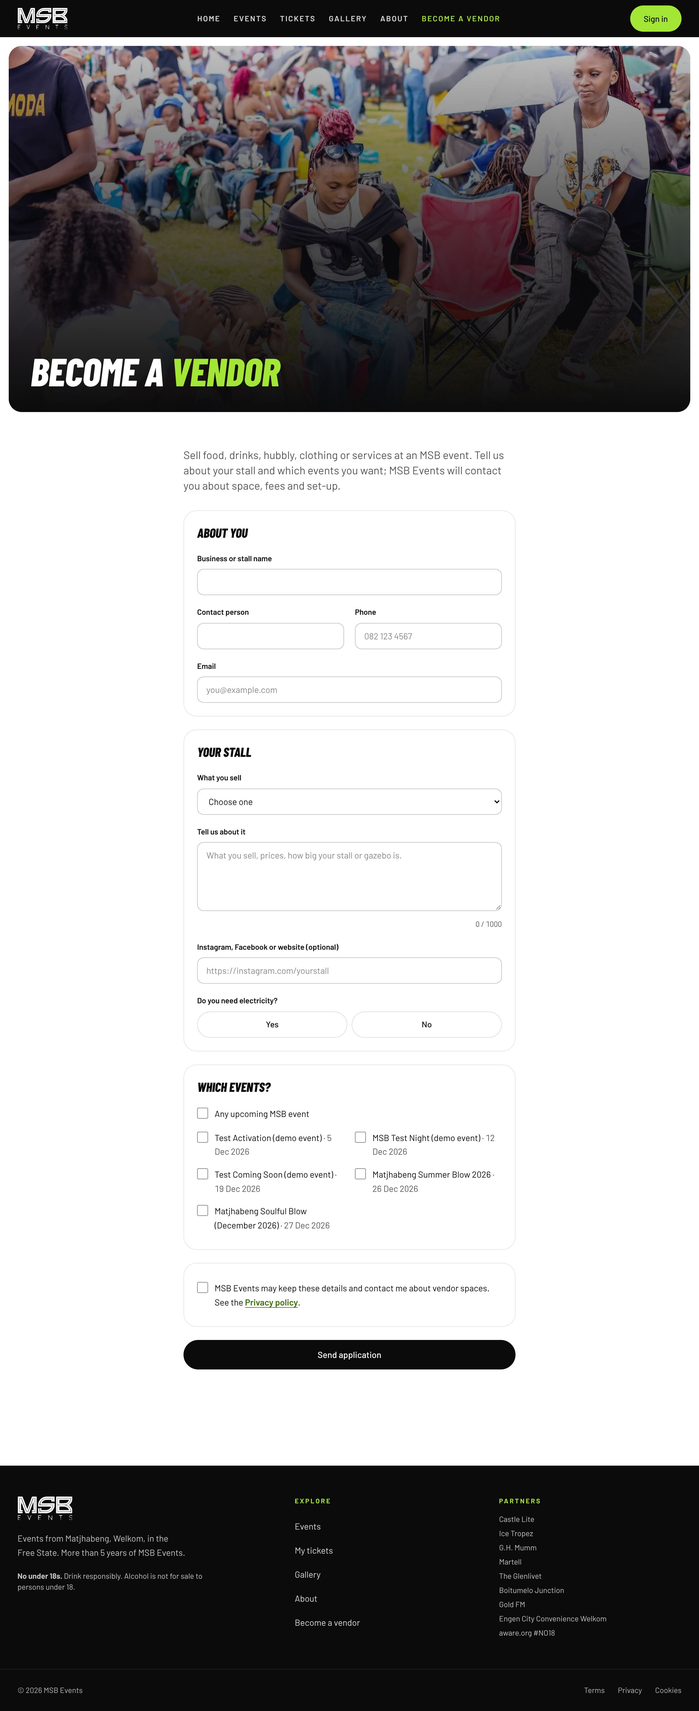
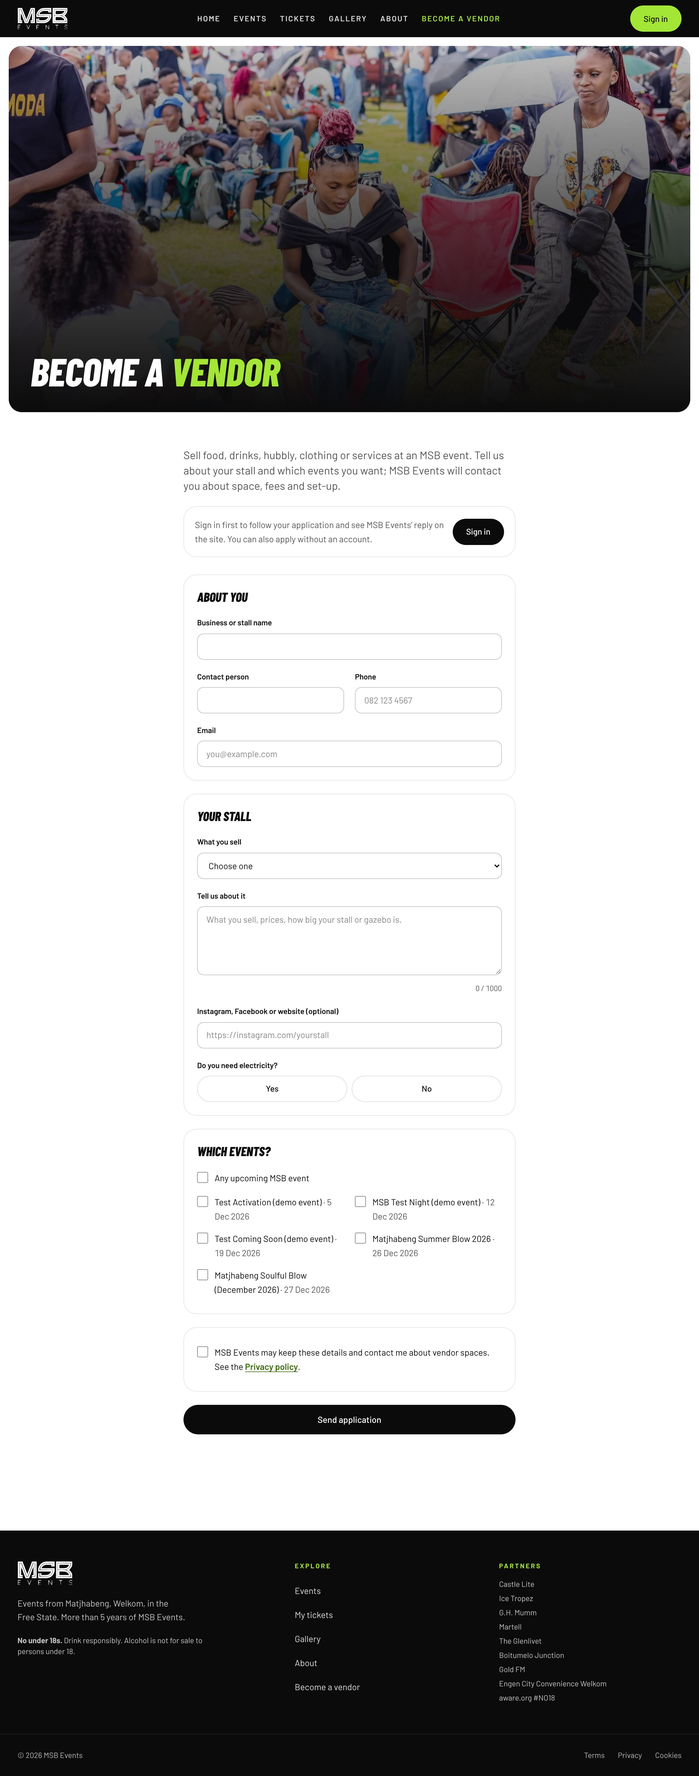
Vendors can follow their applications: My applications page with status and staff message
- Signed-in vendors see their own applications (Received / Approved / Not this time) and the message from MSB Events
- Staff write an optional message when approving or declining (or save it on its own)
- Rules: vendors read only their own applications and cannot change them; message up to 500 characters (+ tests)
- Vendor page prompts signing in to follow the application; privacy page updated

Claude-Session: https://claude.ai/code/session_018NYH4mU8JW1KXeAiDMMBf2

diff --git a/src/pages/dashboard/VendorsAdmin.tsx b/src/pages/dashboard/VendorsAdmin.tsx
@@ -10,6 +10,7 @@ import { VENDOR_CATEGORIES } from '../Vendors';
 interface Application {
   id: string; businessName: string; contactName: string; email: string; phone: string; category: string; description: string;
   events: string[]; anyEvent: boolean; needsPower: boolean; link: string; status: 'new' | 'approved' | 'declined'; createdAt: Timestamp | null;
+  uid?: string | null; response?: string;
 }
 type Filter = 'all' | 'new' | 'approved' | 'declined';
 const LABEL: Record<Application['status'], string> = { new: 'New', approved: 'Approved', declined: 'Declined' };
@@ -20,6 +21,9 @@ export default function VendorsAdmin() {
   const [apps, setApps] = useState<Application[] | null>(null);
   const [filter, setFilter] = useState<Filter>('new');
   const [busy, setBusy] = useState<string | null>(null);
+  // Notes being typed, per application (falls back to the saved note).
+  const [notes, setNotes] = useState<Record<string, string>>({});
+  const noteOf = (a: Application) => notes[a.id] ?? a.response ?? '';
   const { events } = useEvents({ includeDrafts: true });
   useEffect(() => {
     if (!db) return;
@@ -35,15 +39,16 @@ export default function VendorsAdmin() {
     if (!db || !auth?.currentUser) return;
     setBusy(a.id + status);
     try {
-      await updateDoc(doc(db, 'vendorApplications', a.id), { status, reviewedBy: auth.currentUser.uid, reviewedAt: serverTimestamp() });
-      await logActivity(`Marked vendor ${status}`, a.businessName, a.id);
-      toast(`${a.businessName}: ${LABEL[status].toLowerCase()}.`);
+      await updateDoc(doc(db, 'vendorApplications', a.id), { status, reviewedBy: auth.currentUser.uid, reviewedAt: serverTimestamp(), response: noteOf(a).trim().slice(0, 500) });
+      await logActivity(status === a.status ? 'Messaged vendor' : `Marked vendor ${status}`, a.businessName, a.id);
+      setNotes((n) => { const c = { ...n }; delete c[a.id]; return c; });
+      toast(status === a.status ? 'Message saved. The vendor sees it on My applications.' : `${a.businessName}: ${LABEL[status].toLowerCase()}.`);
     } catch { toast('The application could not be updated.', 'error'); } finally { setBusy(null); }
   }
 
   function exportCsv() {
-    const head = ['Received', 'Status', 'Business', 'Contact', 'Phone', 'Email', 'Sells', 'Electricity', 'Events', 'About', 'Link'];
-    const rows = (apps ?? []).map((a) => [a.createdAt ? a.createdAt.toDate().toISOString() : '', a.status, a.businessName, a.contactName, a.phone, a.email, cat(a.category), a.needsPower ? 'Yes' : 'No', a.anyEvent ? 'Any upcoming event' : a.events.map(title).join('; '), a.description, a.link]);
+    const head = ['Received', 'Status', 'Business', 'Contact', 'Phone', 'Email', 'Sells', 'Electricity', 'Events', 'About', 'Link', 'Message to vendor'];
+    const rows = (apps ?? []).map((a) => [a.createdAt ? a.createdAt.toDate().toISOString() : '', a.status, a.businessName, a.contactName, a.phone, a.email, cat(a.category), a.needsPower ? 'Yes' : 'No', a.anyEvent ? 'Any upcoming event' : a.events.map(title).join('; '), a.description, a.link, a.response ?? '']);
     const csv = [head, ...rows].map((r) => r.map(csvCell).join(',')).join('\r\n');
     const url = URL.createObjectURL(new Blob(['' + csv], { type: 'text/csv;charset=utf-8' }));
     const el = document.createElement('a');
@@ -86,6 +91,18 @@ export default function VendorsAdmin() {
               <div className="min-w-0"><dt className="text-ink-soft">Events</dt><dd className="font-semibold break-any">{a.anyEvent ? 'Any upcoming event' : a.events.map(title).join(', ')}</dd></div>
               {a.link && <div className="min-w-0 sm:col-span-2"><dt className="text-ink-soft">Link</dt><dd><a className="link break-any" href={a.link} target="_blank" rel="noopener noreferrer">{a.link}</a></dd></div>}
             </dl>
+            {a.uid ? (
+              <div className="min-w-0">
+                <label htmlFor={`note-${a.id}`} className="field-label">Message to the vendor (optional)</label>
+                <textarea id={`note-${a.id}`} rows={2} maxLength={500} className="field" placeholder="For example: stall 12, set-up from 10:00" value={noteOf(a)} onChange={(e) => setNotes((n) => ({ ...n, [a.id]: e.target.value }))} aria-describedby={`note-${a.id}-hint`} />
+                <p id={`note-${a.id}-hint`} className="mt-1 text-sm text-ink-soft">Shown on their My applications page with the status. Saved when you approve, decline or press Save message.</p>
+                {a.status !== 'new' && noteOf(a) !== (a.response ?? '') && (
+                  <button type="button" className="btn btn-outline mt-2" disabled={!!busy} onClick={() => decide(a, a.status)}>{busy === a.id + a.status && <Spinner label="Saving" />} Save message</button>
+                )}
+              </div>
+            ) : (
+              <p className="text-sm text-ink-soft">Applied without an account: let them know by phone or email.</p>
+            )}
             <div className="even-cols pt-1">
               {a.status !== 'approved' && <button type="button" className="btn btn-primary" disabled={!!busy} onClick={() => decide(a, 'approved')}>{busy === a.id + 'approved' && <Spinner label="Saving" />} Approve</button>}
               {a.status !== 'declined' && <button type="button" className="btn btn-outline" disabled={!!busy} onClick={() => decide(a, 'declined')}>{busy === a.id + 'declined' && <Spinner label="Saving" />} Decline</button>}

diff --git a/src/pages/MyApplications.tsx b/src/pages/MyApplications.tsx
@@ -1,0 +1,84 @@
+import { useEffect, useState } from 'react';
+import { Link, Navigate } from 'react-router-dom';
+import { collection, onSnapshot, query, where, type Timestamp } from 'firebase/firestore';
+import { PageHero } from '../components/Layout';
+import { Skeleton } from '../components/ui';
+import { useAuth } from '../lib/auth';
+import { db } from '../lib/firebase';
+import { useEvents } from '../lib/data';
+import { useTitle } from '../lib/useTitle';
+import { VENDOR_CATEGORIES } from './Vendors';
+
+interface Application {
+  id: string; businessName: string; category: string; events: string[]; anyEvent: boolean;
+  status: 'new' | 'approved' | 'declined'; response?: string; createdAt: Timestamp | null; reviewedAt?: Timestamp | null;
+}
+
+const STATUS: Record<Application['status'], { label: string; cls: string; help: string }> = {
+  new: { label: 'Received', cls: 'bg-ink text-lime', help: 'MSB Events has your application and will be in touch.' },
+  approved: { label: 'Approved', cls: 'bg-ok text-white', help: 'Good news. MSB Events will contact you about space, fees and set-up.' },
+  declined: { label: 'Not this time', cls: 'bg-mist text-ink', help: 'Your application was not taken up for these events. You are welcome to apply again for other events.' },
+};
+const day = (t?: Timestamp | null) => (t ? t.toDate().toLocaleDateString('en-ZA', { timeZone: 'Africa/Johannesburg', day: 'numeric', month: 'short', year: 'numeric' }) : '');
+const cat = (k: string) => VENDOR_CATEGORIES.find(([c]) => c === k)?.[1] ?? k;
+
+/** A vendor's own applications (made while signed in), with the status and any note from MSB Events. */
+export default function MyApplications() {
+  useTitle('My vendor applications');
+  const { user, ready } = useAuth();
+  const { events } = useEvents();
+  const [apps, setApps] = useState<Application[] | null>(null);
+  useEffect(() => {
+    if (!db || !user) return;
+    return onSnapshot(
+      query(collection(db, 'vendorApplications'), where('uid', '==', user.uid)),
+      (s) => setApps(s.docs.map((d) => ({ id: d.id, ...(d.data({ serverTimestamps: 'estimate' }) as Omit<Application, 'id'>) })).sort((a, b) => (b.createdAt?.toMillis() ?? 0) - (a.createdAt?.toMillis() ?? 0))),
+      () => setApps([]),
+    );
+  }, [user]);
+  const title = (id: string) => events?.find((e) => e.id === id)?.title ?? 'An MSB event';
+
+  if (!ready) return <div className="wrap max-w-2xl py-10"><Skeleton className="h-60" /></div>;
+  if (!user) return <Navigate to="/account?next=/vendors/applications" replace />;
+
+  return (
+    <>
+      <PageHero title="My applications" photo="/photos/festival-crowd-chairs" position="center 40%" />
+      <div className="wrap max-w-2xl py-12 md:py-16 space-y-6">
+        <p className="text-ink-soft">Vendor applications you sent while signed in, and what MSB Events said. <Link to="/vendors" className="link">Apply for another event</Link>.</p>
+        {!apps && <Skeleton className="h-40" />}
+        {apps && apps.length === 0 && (
+          <div className="panel p-6 space-y-3">
+            <p className="font-bold">No applications on this account yet.</p>
+            <p className="text-ink-soft">Applications sent without signing in are not linked to an account, so they do not show here. MSB Events will still contact you about them.</p>
+            <Link to="/vendors" className="btn btn-primary">Become a vendor</Link>
+          </div>
+        )}
+        <ul className="space-y-4">
+          {(apps ?? []).map((a) => {
+            const s = STATUS[a.status] ?? STATUS.new;
+            return (
+              <li key={a.id} className="panel p-5 space-y-3 min-w-0">
+                <div className="flex items-start justify-between gap-3">
+                  <div className="min-w-0">
+                    <h2 className="t-card break-any">{a.businessName}</h2>
+                    <p className="text-sm text-ink-soft">{cat(a.category)} · sent {day(a.createdAt)}</p>
+                  </div>
+                  <span className={`pill shrink-0 ${s.cls}`}>{s.label}</span>
+                </div>
+                <p className="text-sm"><span className="text-ink-soft">Events: </span><span className="font-semibold break-any">{a.anyEvent ? 'Any upcoming event' : a.events.map(title).join(', ')}</span></p>
+                <p className="text-sm text-ink-soft">{s.help}</p>
+                {a.response && (
+                  <div className="rounded-2xl bg-mist p-4">
+                    <p className="eyebrow text-ink-soft">Message from MSB Events{a.reviewedAt ? ` · ${day(a.reviewedAt)}` : ''}</p>
+                    <p className="mt-2 whitespace-pre-line break-any">{a.response}</p>
+                  </div>
+                )}
+              </li>
+            );
+          })}
+        </ul>
+      </div>
+    </>
+  );
+}

diff --git a/src/pages/Vendors.tsx b/src/pages/Vendors.tsx
@@ -27,7 +27,7 @@ const PHONE = /^[0-9 +()-]{7,20}$/;
 
 export default function Vendors() {
   useTitle('Become a vendor');
-  const { user, profile } = useAuth();
+  const { user, profile, ready } = useAuth();
   const { events } = useEvents();
   const upcoming = useMemo(() => (events ? filterEvents(events, 'upcoming') : []), [events]);
   const [f, setF] = useState({ businessName: '', contactName: '', email: '', phone: '', category: '', description: '', link: '', website: '' });
@@ -100,9 +100,13 @@ export default function Vendors() {
           <div className="band p-8 sm:p-10 ticket-in" role="status">
             <CheckCircle2 className="size-10 text-lime" aria-hidden />
             <h2 className="t-section mt-4">Application <span className="text-lime">sent</span></h2>
-            <p className="mt-3 text-white/85 prose-w">Thank you. MSB Events will contact you about stall space, fees and set-up for the events you chose.</p>
+            <p className="mt-3 text-white/85 prose-w">
+              Thank you. MSB Events will contact you about stall space, fees and set-up for the events you chose.
+              {user ? ' You can follow it under My applications.' : ''}
+            </p>
             <div className="even-row [--even-min:10rem] mt-6">
-              <Link to="/events" className="btn btn-accent">See upcoming events <ArrowRight className="btn-arrow" aria-hidden /></Link>
+              {user && <Link to="/vendors/applications" className="btn btn-accent">My applications <ArrowRight className="btn-arrow" aria-hidden /></Link>}
+              <Link to="/events" className={user ? 'btn btn-outline-light' : 'btn btn-accent'}>See upcoming events <ArrowRight className="btn-arrow" aria-hidden /></Link>
               <Link to="/" className="btn btn-outline-light">Back to home</Link>
             </div>
           </div>
@@ -113,6 +117,19 @@ export default function Vendors() {
               will contact you about space, fees and set-up.
             </p>
             {!firebaseReady && <p className="mt-6 panel p-5 text-ink-soft">Applications are not switched on on this copy of the site.</p>}
+            {firebaseReady && ready && (
+              user ? (
+                <p className="mt-6 panel p-5 flex flex-col sm:flex-row sm:items-center justify-between gap-3">
+                  <span className="text-ink-soft">You are signed in, so you can follow this application and see MSB Events’ reply.</span>
+                  <Link to="/vendors/applications" className="btn btn-outline shrink-0">My applications</Link>
+                </p>
+              ) : (
+                <p className="mt-6 panel p-5 flex flex-col sm:flex-row sm:items-center justify-between gap-3">
+                  <span className="text-ink-soft">Sign in first to follow your application and see MSB Events’ reply on the site. You can also apply without an account.</span>
+                  <Link to="/account?next=/vendors" className="btn btn-primary shrink-0">Sign in</Link>
+                </p>
+              )
+            )}
             <form onSubmit={submit} noValidate className="mt-8 space-y-6">
               <section className="panel p-6 grid grid-cols-1 sm:grid-cols-2 gap-5 items-start" aria-labelledby="v-about">
                 <h2 id="v-about" className="t-card sm:col-span-2">About you</h2>

diff --git a/tests/e2e/extras.spec.ts b/tests/e2e/extras.spec.ts
@@ -147,3 +147,44 @@ test('a busy checkout shows the waiting room instead of an error, and the buyer 
   await expect(a.page.getByText(/You left the line/).first()).toBeVisible();
   await a.ctx.close();
 });
+
+test('a signed-in vendor follows their application and reads the reply from MSB Events', async ({ browser }) => {
+  const v = await signUp(browser, { name: 'Lindi Vendor', email: `vendor${stamp}@msb.test`, password: 'blow-2026-test' }, '/vendors');
+  const page = v.page;
+  await expect(page.getByText(/You are signed in, so you can follow this application/)).toBeVisible();
+  await page.getByLabel('Business or stall name').fill(`Lindi's Kota ${stamp}`);
+  await page.getByLabel('Phone').fill('082 000 0000');
+  await page.getByLabel('What you sell').selectOption('food');
+  await page.getByLabel('Tell us about it').fill('Kotas and cold drinks, two people, own gazebo.');
+  await page.getByRole('radio', { name: 'No' }).click();
+  await page.getByLabel(/MSB Test Night/).check();
+  await page.getByLabel(/MSB Events may keep these details/).check();
+  await page.getByRole('button', { name: 'Send application' }).click();
+  await expect(page.getByRole('heading', { name: /Application sent/ })).toBeVisible();
+  await page.getByRole('link', { name: /My applications/ }).first().click();
+  await page.waitForURL('**/vendors/applications');
+  await expect(page.getByText('Received')).toBeVisible();
+
+  const staff = await browser.newContext({ viewport: { width: 1280, height: 900 } });
+  const sp = await staff.newPage();
+  await signIn(sp, 'manager@msb.test', undefined, '/dashboard/vendors');
+  await sp.goto('/dashboard/vendors');
+  const card = sp.locator('li', { hasText: `Lindi's Kota ${stamp}` });
+  await card.getByLabel('Message to the vendor (optional)').fill('Stall 12, set-up from 10:00. Bring your own gas.');
+  await card.getByRole('button', { name: 'Approve' }).click();
+  await expect(sp.getByText(/approved\./)).toBeVisible();
+  await checkLayout(sp, 'vendors admin with message @1280');
+  await staff.close();
+
+  await page.reload();
+  await settle(page, 1200);
+  await expect(page.getByText('Approved')).toBeVisible();
+  await expect(page.getByText('Stall 12, set-up from 10:00. Bring your own gas.')).toBeVisible();
+  await checkLayout(page, 'my applications @1280');
+  await checkA11y(page, 'my applications');
+  await page.setViewportSize({ width: 360, height: 740 });
+  await settle(page, 400);
+  await checkLayout(page, 'my applications @360');
+  await shot(page, 'my-applications-phone');
+  await v.ctx.close();
+});

diff --git a/tests/rules/rules.test.ts b/tests/rules/rules.test.ts
@@ -304,6 +304,25 @@ describe('vendor applications', () => {
     await assertFails(updateDoc(doc(as('manager'), 'vendorApplications', ref.id), { status: 'approved', reviewedBy: 'manager', reviewedAt: serverTimestamp(), businessName: 'X' }));
     await assertSucceeds(updateDoc(doc(as('manager'), 'vendorApplications', ref.id), { status: 'approved', reviewedBy: 'manager', reviewedAt: serverTimestamp() }));
   });
+  it('a signed-in vendor sees their own applications and the response, and cannot change them', async () => {
+    const mine = await addDoc(collection(as('alice'), 'vendorApplications'), app({ uid: 'alice' }));
+    await addDoc(collection(as('bob'), 'vendorApplications'), app({ uid: 'bob' }));
+    await assertSucceeds(getDoc(doc(as('alice'), 'vendorApplications', mine.id)));
+    await assertFails(getDoc(doc(as('bob'), 'vendorApplications', mine.id)));
+    const own = await assertSucceeds(getDocs(query(collection(as('alice'), 'vendorApplications'), where('uid', '==', 'alice'))));
+    expect(own.size).toBe(1);
+    await assertFails(getDocs(collection(as('alice'), 'vendorApplications')));
+    await assertFails(getDocs(query(collection(as('alice'), 'vendorApplications'), where('uid', '==', 'bob'))));
+    await assertFails(updateDoc(doc(as('alice'), 'vendorApplications', mine.id), { status: 'approved' }));
+    await assertFails(updateDoc(doc(as('alice'), 'vendorApplications', mine.id), { response: 'Approved, stall 1' }));
+  });
+  it('staff can leave a short note for the vendor', async () => {
+    const ref = await addDoc(collection(as('alice'), 'vendorApplications'), app({ uid: 'alice' }));
+    await assertSucceeds(updateDoc(doc(as('manager'), 'vendorApplications', ref.id), { status: 'approved', reviewedBy: 'manager', reviewedAt: serverTimestamp(), response: 'Stall 12, set-up from 10:00.' }));
+    await assertFails(updateDoc(doc(as('manager'), 'vendorApplications', ref.id), { status: 'approved', reviewedBy: 'manager', reviewedAt: serverTimestamp(), response: 'x'.repeat(501) }));
+    const snap = await getDoc(doc(as('alice'), 'vendorApplications', ref.id));
+    expect(snap.data()?.response).toBe('Stall 12, set-up from 10:00.');
+  });
 });
 
 

diff --git a/src/pages/Legal.tsx b/src/pages/Legal.tsx
@@ -107,7 +107,7 @@ export function Privacy() {
         <li><strong>Your tickets and orders:</strong> the event, ticket type, quantity, the name on the ticket (your account name), the date issued, and whether and when the ticket was scanned at the door.</li>
         <li><strong>Ticket transfers:</strong> when you make a transfer link we store the ticket's details and your name, so your friend sees who sent it. After a claim we keep a note on both tickets of where they came from.</li>
         <li><strong>Notify lists:</strong> if you tap "Notify me when tickets go on sale", we store your name, account email and the event, so MSB Events can tell you when tickets open. You can undo it on the event page at any time.</li>
-        <li><strong>Vendor applications:</strong> if you apply to sell at an event, your business name, contact person, phone number, email, what you sell, the events you chose, whether you need electricity and any link you give. You do not need an account to apply.</li>
+        <li><strong>Vendor applications:</strong> if you apply to sell at an event, your business name, contact person, phone number, email, what you sell, the events you chose, whether you need electricity and any link you give. You do not need an account to apply. If you apply while signed in, the application is linked to your account so you can see its status and any message from MSB Events under My applications; staff can add a short message when they decide.</li>
         <li><strong>Staff:</strong> for staff accounts, their role and a log of actions taken in the dashboard (for example editing an event or scanning a ticket).</li>
       </ul>
       <p>We do not collect card or bank details: no payments are taken on this site. We do not use analytics, advertising or tracking tools.</p>

diff --git a/tests/e2e/layout.spec.ts b/tests/e2e/layout.spec.ts
@@ -111,7 +111,7 @@ async function rolePages(browser: Browser, email: string, paths: string[], tag: 
 
 test('signed in as each role, at every width', async ({ browser }) => {
   test.setTimeout(240_000);
-  await rolePages(browser, 'super@msb.test', ['/dashboard/events', '/dashboard/events/demo-test-night-2026', '/dashboard/events/new', '/dashboard/reports', '/dashboard/gallery', '/dashboard/vendors', '/dashboard/notify', '/dashboard/users', '/dashboard/activity', '/profile', '/tickets'], 'super admin');
+  await rolePages(browser, 'super@msb.test', ['/dashboard/events', '/dashboard/events/demo-test-night-2026', '/dashboard/events/new', '/dashboard/reports', '/dashboard/gallery', '/dashboard/vendors', '/dashboard/notify', '/dashboard/users', '/dashboard/activity', '/profile', '/tickets', '/vendors/applications'], 'super admin');
   await rolePages(browser, 'admin@msb.test', ['/dashboard/events', '/dashboard/reports', '/dashboard/gallery'], 'admin');
   await rolePages(browser, 'manager@msb.test', ['/dashboard/events', '/dashboard/gallery', '/dashboard/vendors', '/dashboard/notify'], 'event manager');
   await rolePages(browser, 'finance@msb.test', ['/dashboard/reports', '/scan'], 'finance');

diff --git a/src/App.tsx b/src/App.tsx
@@ -18,6 +18,7 @@ const Account = lazy(() => import('./pages/Account'));
 const Profile = lazy(() => import('./pages/Profile'));
 const MyTickets = lazy(() => import('./pages/MyTickets'));
 const Claim = lazy(() => import('./pages/Claim'));
+const MyApplications = lazy(() => import('./pages/MyApplications'));
 const Dashboard = lazy(() => import('./pages/dashboard/Dashboard'));
 const Scanner = lazy(() => import('./pages/Scanner'));
 
@@ -55,6 +56,7 @@ export default function App() {
                     <Route path="/dashboard/*" element={<Dashboard />} />
                     <Route path="/gallery" element={<Gallery />} />
                     <Route path="/vendors" element={<Vendors />} />
+                    <Route path="/vendors/applications" element={<MyApplications />} />
                     <Route path="/terms" element={<Terms />} />
                     <Route path="/privacy" element={<Privacy />} />
                     <Route path="/cookies" element={<Cookies />} />

diff --git a/src/pages/Profile.tsx b/src/pages/Profile.tsx
@@ -83,7 +83,7 @@ export default function Profile() {
     <>
       <PageHero title="Your profile" photo="/photos/festival-crowd-denim" position="center 40%" />
       <div className="wrap max-w-2xl py-12 md:py-16">
-        <p className="mb-6 text-ink-soft">Your tickets are on the <Link to="/tickets" className="link">Tickets</Link> page.</p>
+        <p className="mb-6 text-ink-soft">Your tickets are on the <Link to="/tickets" className="link">Tickets</Link> page. Vendor applications you sent while signed in are under <Link to="/vendors/applications" className="link">My applications</Link>.</p>
         <AccountPanel />
       </div>
     </>

diff --git a/README.md b/README.md
@@ -20,6 +20,7 @@ Built in the Bokamoso style: React, Vite, Tailwind 4 and TypeScript, with Fireba
 | Event page: poster, title card with countdown, date and venue card, Buy button (or "Buy on Computicket", or "Notify me" when tickets are coming soon), Add to calendar, Directions, WhatsApp and Share, Info / Line up / Venue tabs | `src/pages/EventPage.tsx`, `src/components/EventActions.tsx`, `NotifyMe.tsx`, `Countdown.tsx` |
 | Tickets step (releases, VIP tables, free tickets, sold out / coming soon, gate price, promo code row switched off), cart, checkout (Tickets → Details → Pay → Success) | `src/pages/Tickets.tsx`, `Cart.tsx`, `Checkout.tsx`, `src/lib/checkout.ts` |
 | My tickets with QR codes, PDF download and "Send to a friend" (one-time transfer link, claimed at `/claim/<code>`); profile (name, password, delete) | `src/pages/MyTickets.tsx`, `Claim.tsx`, `Profile.tsx`, `src/lib/transfer.ts`, `src/lib/pdf.ts` |
+| Vendor applications (with or without an account) and My applications for signed-in vendors: status and staff message | `src/pages/Vendors.tsx`, `src/pages/MyApplications.tsx`, `src/pages/dashboard/VendorsAdmin.tsx` |
 | Busy-sale waiting room: checkout retries automatically behind a "You are in the line" screen | `src/lib/queue.ts`, `src/components/WaitingRoom.tsx` |
 | Search and sharing: per-page head tags, schema.org Event data, sitemap.xml, robots.txt | `src/lib/seo.ts`, `scripts/prerender.mjs` |
 | Gallery with full-screen viewer | `src/pages/Gallery.tsx`, `src/components/PhotoViewer.tsx` |

diff --git a/docs/DECISIONS.md b/docs/DECISIONS.md
@@ -119,3 +119,9 @@ The Bokamoso rules applied across the whole site. Everything shared is in `src/i
   `X-Powered-By` (the security headers are already in `firebase.json`); on nginx use `server_tokens off;` (and
   `more_clear_headers Server;` with the headers-more module); on Apache use `ServerTokens Prod`, `ServerSignature Off`
   and `Header unset X-Powered-By`; on Express use `app.disable('x-powered-by')`.
+- **Vendors follow their applications.** A vendor who applies while signed in can open My applications
+  (`/vendors/applications`, also linked from Profile and the vendor page) to see each application's status (Received,
+  Approved, Not this time) and an optional message from staff (up to 500 characters, written in Dashboard → Vendors).
+  The rules let a vendor read only applications carrying their own account id and never change them; only event staff
+  write the status and message. Applications sent without an account are not linked to anyone and do not show there;
+  staff are reminded to reply to those by phone or email. No email is sent.
